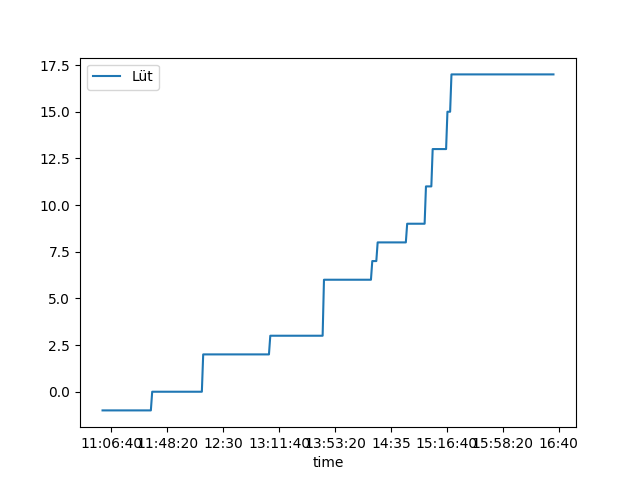
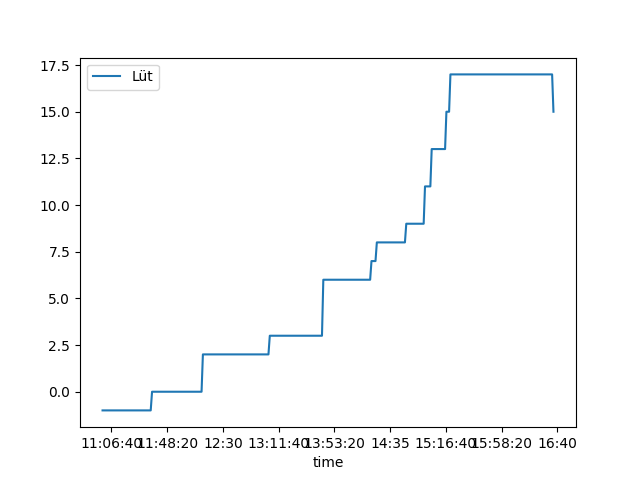
auto: new data

diff --git a/README.md b/README.md
@@ -1,4 +1,4 @@
-### Jitz grad: 17/33 (Määnti, 2022-01-03 16:36:00
+### Jitz grad: 15/33 (Määnti, 2022-01-03 16:37:00
 
 ### Hütige Vrlouf:
 ![Graph](Today.png)
